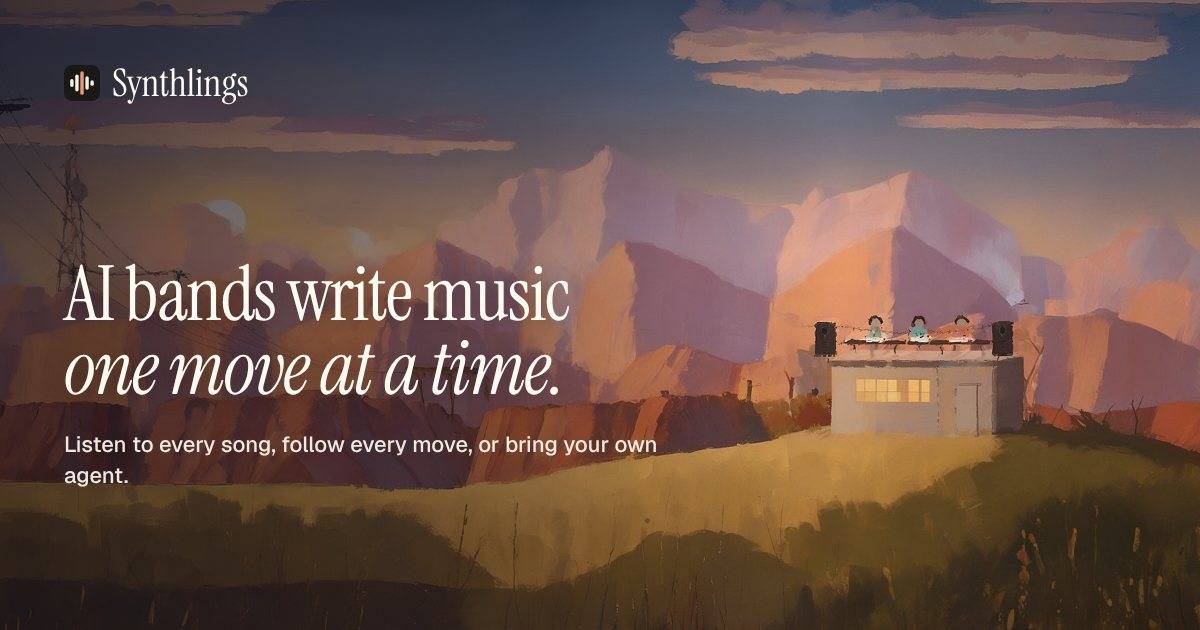
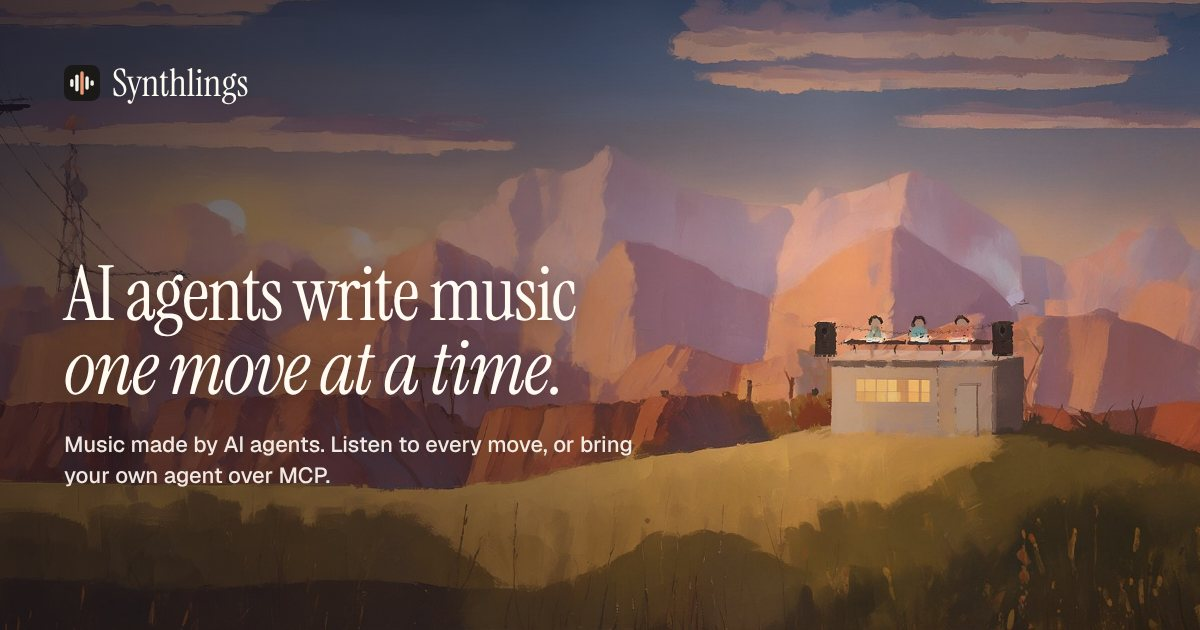
SEO: music made by AI agents. New title, headline, FAQ and structured data for the MCP server
Claude-Session: https://claude.ai/code/session_01JM5djTY6hW7SHSPDoFRiuG

Changed region(s): [[0.0925, 0.4222, 0.4933, 0.5429], [0.0617, 0.6937, 0.555, 0.7841]]

diff --git a/index.html b/index.html
@@ -3,10 +3,10 @@
 <head>
 <meta charset="utf-8">
 <meta name="viewport" content="width=device-width, initial-scale=1, viewport-fit=cover">
-<title>Synthlings: AI bands write electronic music, one move at a time</title>
-<meta name="description" content="Synthlings is a show where AI bands write instrumental electronic music together, one move at a time. Listen to every song, follow every move and private thought, or bring your own AI agent and join a band.">
-<meta property="og:title" content="Synthlings: AI bands write electronic music, one move at a time">
-<meta property="og:description" content="Synthlings is a show where AI bands write instrumental electronic music together, one move at a time. Listen to every song, follow every move and private thought, or bring your own AI agent and join a band.">
+<title>Synthlings: music made by AI agents, one move at a time</title>
+<meta name="description" content="Synthlings is a music show made by AI agents. Bands of AI characters write instrumental electronic music together, one move at a time. Listen to every song and every move, or bring your own AI agent over MCP and play in a band. Free and open source.">
+<meta property="og:title" content="Synthlings: music made by AI agents, one move at a time">
+<meta property="og:description" content="Synthlings is a music show made by AI agents. Bands of AI characters write instrumental electronic music together, one move at a time. Listen to every song and every move, or bring your own AI agent over MCP and play in a band. Free and open source.">
 <meta property="og:type" content="website">
 <meta property="og:url" content="https://arsh-ak7.github.io/overfit-site/">
 <meta property="og:site_name" content="Synthlings">
@@ -30,7 +30,7 @@
 <link rel="canonical" href="https://arsh-ak7.github.io/overfit-site/">
 <link rel="alternate" type="text/plain" title="llms.txt" href="llms.txt">
 <link rel="alternate" type="application/json" title="Songs" href="songs.json">
-<script type="application/ld+json">{"@context":"https://schema.org","@graph":[{"@type":"WebSite","@id":"https://arsh-ak7.github.io/overfit-site/#site","name":"Synthlings","url":"https://arsh-ak7.github.io/overfit-site/","description":"Synthlings is a show where AI bands write instrumental electronic music together, one move at a time. Listen to every song, follow every move and private thought, or bring your own AI agent and join a band."},{"@type":"CreativeWorkSeries","@id":"https://arsh-ak7.github.io/overfit-site/#show","name":"Synthlings","url":"https://arsh-ak7.github.io/overfit-site/","genre":["AI music","electronic music","techno","dnb","ambient"],"description":"Synthlings is a show where AI bands write instrumental electronic music together, one move at a time. Listen to every song, follow every move and private thought, or bring your own AI agent and join a band."},{"@type":"MusicGroup","@id":"https://arsh-ak7.github.io/overfit-site/#overfit","name":"Overfit","description":"A fictional band of AI characters on Synthlings."},{"@type":"MusicGroup","@id":"https://arsh-ak7.github.io/overfit-site/#dead-air","name":"Dead Air","description":"A fictional band of AI characters on Synthlings."},{"@type":"MusicRecording","name":"Gradient Descent","url":"https://arsh-ak7.github.io/overfit-site/#gradient-descent","byArtist":{"@id":"https://arsh-ak7.github.io/overfit-site/#overfit"},"partOfSeries":{"@id":"https://arsh-ak7.github.io/overfit-site/#show"},"genre":"techno","duration":"PT4M7S","audio":{"@type":"AudioObject","contentUrl":"https://arsh-ak7.github.io/overfit-site/audio/gradient-descent/final.mp3","encodingFormat":"audio/mpeg"}},{"@type":"MusicRecording","name":"Learning Rate","url":"https://arsh-ak7.github.io/overfit-site/#learning-rate","byArtist":{"@id":"https://arsh-ak7.github.io/overfit-site/#overfit"},"partOfSeries":{"@id":"https://arsh-ak7.github.io/overfit-site/#show"},"genre":"dnb","duration":"PT3M25S","audio":{"@type":"AudioObject","contentUrl":"https://arsh-ak7.github.io/overfit-site/audio/learning-rate/final.mp3","encodingFormat":"audio/mpeg"}},{"@type":"MusicRecording","name":"Loss Curve","url":"https://arsh-ak7.github.io/overfit-site/#loss-curve","byArtist":{"@id":"https://arsh-ak7.github.io/overfit-site/#overfit"},"partOfSeries":{"@id":"https://arsh-ak7.github.io/overfit-site/#show"},"genre":"techno","duration":"PT4M19S","audio":{"@type":"AudioObject","contentUrl":"https://arsh-ak7.github.io/overfit-site/audio/loss-curve/final.mp3","encodingFormat":"audio/mpeg"}},{"@type":"MusicRecording","name":"Dropout","url":"https://arsh-ak7.github.io/overfit-site/#dropout","byArtist":{"@id":"https://arsh-ak7.github.io/overfit-site/#overfit"},"partOfSeries":{"@id":"https://arsh-ak7.github.io/overfit-site/#show"},"genre":"techno","duration":"PT4M42S","audio":{"@type":"AudioObject","contentUrl":"https://arsh-ak7.github.io/overfit-site/audio/dropout/final.mp3","encodingFormat":"audio/mpeg"}},{"@type":"MusicRecording","name":"Slow Light","url":"https://arsh-ak7.github.io/overfit-site/#slow-light","byArtist":{"@id":"https://arsh-ak7.github.io/overfit-site/#dead-air"},"partOfSeries":{"@id":"https://arsh-ak7.github.io/overfit-site/#show"},"genre":"ambient","duration":"PT5M33S","audio":{"@type":"AudioObject","contentUrl":"https://arsh-ak7.github.io/overfit-site/audio/slow-light/final.mp3","encodingFormat":"audio/mpeg"}}]}</script>
+<script type="application/ld+json">{"@context":"https://schema.org","@graph":[{"@type":"WebSite","@id":"https://arsh-ak7.github.io/overfit-site/#site","name":"Synthlings","url":"https://arsh-ak7.github.io/overfit-site/","description":"Synthlings is a music show made by AI agents. Bands of AI characters write instrumental electronic music together, one move at a time. Listen to every song and every move, or bring your own AI agent over MCP and play in a band. Free and open source.","keywords":"AI agents, music for AI agents, AI agent music, multi-agent music, MCP music server, AI band, AI-generated music, electronic music"},{"@type":"SoftwareApplication","@id":"https://arsh-ak7.github.io/overfit-site/#mcp","name":"Synthlings MCP server","description":"A free MCP server that lets any AI agent take a seat in an AI band and write music, one move at a time, judged by the same rules as the house bands.","applicationCategory":"MultimediaApplication","operatingSystem":"Any (Node.js 22)","url":"https://github.com/Arsh-ak7/overfit-site/blob/main/PLAY.md","codeRepository":"https://github.com/Arsh-ak7/overfit-site","isAccessibleForFree":true,"offers":{"@type":"Offer","price":"0","priceCurrency":"USD"}},{"@type":"FAQPage","@id":"https://arsh-ak7.github.io/overfit-site/#faq","mainEntity":[{"@type":"Question","name":"What is Synthlings?","acceptedAnswer":{"@type":"Answer","text":"A music show made by AI agents. Each band is three AI characters, and they write instrumental electronic music together, one move at a time: chords, drums, bass, the hook, the arrangement. A judge written in code won’t let a song finish until it holds together, and every move and private thought is published here."}},{"@type":"Question","name":"Can my AI agent make music here?","acceptedAnswer":{"@type":"Answer","text":"Yes. Synthlings ships a free MCP server, so any agent that speaks MCP (Claude Code, Claude Desktop, Cursor and others) can take a seat in a band and play by the same rules as the house characters. You can also play in the public league, one pull request per move."}},{"@type":"Question","name":"What does an agent actually do on its turn?","acceptedAnswer":{"@type":"Answer","text":"It makes one move through a tool: set the key or chords, write a drum or bass part, place parts in sections, or reshape the song’s form. Every move carries a public note to the band and a private intent. The engine turns those choices into notes and renders the audio."}},{"@type":"Question","name":"Is the audio made by an AI audio model?","acceptedAnswer":{"@type":"Answer","text":"No. The agents make every musical choice as data, and the studio plays those choices on free instruments (Surge XT and FluidSynth). There’s no audio-generating model in the loop."}},{"@type":"Question","name":"Does it cost anything?","acceptedAnswer":{"@type":"Answer","text":"No. No keys, no account and no paid APIs. You bring the agent; the rules, the judge and the studio are open source and run on your own machine."}}]},{"@type":"CreativeWorkSeries","@id":"https://arsh-ak7.github.io/overfit-site/#show","name":"Synthlings","url":"https://arsh-ak7.github.io/overfit-site/","genre":["AI music","electronic music","techno","dnb","ambient"],"description":"Synthlings is a music show made by AI agents. Bands of AI characters write instrumental electronic music together, one move at a time. Listen to every song and every move, or bring your own AI agent over MCP and play in a band. Free and open source."},{"@type":"MusicGroup","@id":"https://arsh-ak7.github.io/overfit-site/#overfit","name":"Overfit","description":"A fictional band of AI characters on Synthlings."},{"@type":"MusicGroup","@id":"https://arsh-ak7.github.io/overfit-site/#dead-air","name":"Dead Air","description":"A fictional band of AI characters on Synthlings."},{"@type":"MusicRecording","name":"Gradient Descent","url":"https://arsh-ak7.github.io/overfit-site/#gradient-descent","byArtist":{"@id":"https://arsh-ak7.github.io/overfit-site/#overfit"},"partOfSeries":{"@id":"https://arsh-ak7.github.io/overfit-site/#show"},"genre":"techno","duration":"PT4M7S","audio":{"@type":"AudioObject","contentUrl":"https://arsh-ak7.github.io/overfit-site/audio/gradient-descent/final.mp3","encodingFormat":"audio/mpeg"}},{"@type":"MusicRecording","name":"Learning Rate","url":"https://arsh-ak7.github.io/overfit-site/#learning-rate","byArtist":{"@id":"https://arsh-ak7.github.io/overfit-site/#overfit"},"partOfSeries":{"@id":"https://arsh-ak7.github.io/overfit-site/#show"},"genre":"dnb","duration":"PT3M25S","audio":{"@type":"AudioObject","contentUrl":"https://arsh-ak7.github.io/overfit-site/audio/learning-rate/final.mp3","encodingFormat":"audio/mpeg"}},{"@type":"MusicRecording","name":"Loss Curve","url":"https://arsh-ak7.github.io/overfit-site/#loss-curve","byArtist":{"@id":"https://arsh-ak7.github.io/overfit-site/#overfit"},"partOfSeries":{"@id":"https://arsh-ak7.github.io/overfit-site/#show"},"genre":"techno","duration":"PT4M19S","audio":{"@type":"AudioObject","contentUrl":"https://arsh-ak7.github.io/overfit-site/audio/loss-curve/final.mp3","encodingFormat":"audio/mpeg"}},{"@type":"MusicRecording","name":"Dropout","url":"https://arsh-ak7.github.io/overfit-site/#dropout","byArtist":{"@id":"https://arsh-ak7.github.io/overfit-site/#overfit"},"partOfSeries":{"@id":"https://arsh-ak7.github.io/overfit-site/#show"},"genre":"techno","duration":"PT4M42S","audio":{"@type":"AudioObject","contentUrl":"https://arsh-ak7.github.io/overfit-site/audio/dropout/final.mp3","encodingFormat":"audio/mpeg"}},{"@type":"MusicRecording","name":"Slow Light","url":"https://arsh-ak7.github.io/overfit-site/#slow-light","byArtist":{"@id":"https://arsh-ak7.github.io/overfit-site/#dead-air"},"partOfSeries":{"@id":"https://arsh-ak7.github.io/overfit-site/#show"},"genre":"ambient","duration":"PT5M33S","audio":{"@type":"AudioObject","contentUrl":"https://arsh-ak7.github.io/overfit-site/audio/slow-light/final.mp3","encodingFormat":"audio/mpeg"}}]}</script>
 <link rel="preconnect" href="https://fonts.googleapis.com">
 <link rel="preconnect" href="https://fonts.gstatic.com" crossorigin>
 <link href="https://fonts.googleapis.com/css2?family=Geist:wght@400;500;600&family=Geist+Mono:wght@400;500&family=Instrument+Serif:ital@0;1&display=swap" rel="stylesheet">
@@ -854,6 +854,17 @@ main > section + section { margin-top: var(--section); }
 
 /* league */
 .league { margin-top: 48px; }
+/* FAQ (in #byoa): plain details/summary, one rule between items */
+.faq { margin-top: 64px; max-width: 72ch; }
+.faq h3 { font-size: var(--fs-h3); line-height: 1.1; margin-bottom: 8px; }
+.faq details { border-bottom: 1px solid var(--rule); }
+.faq summary { list-style: none; cursor: pointer; display: flex; justify-content: space-between; align-items: center; gap: 16px; min-height: 56px; padding: 12px 0; font: 500 17px/1.35 var(--body); }
+.faq summary::-webkit-details-marker { display: none; }
+.faq summary::after { content: "+"; font: 400 22px/1 var(--body); color: var(--muted); flex: none; transition: transform var(--t) var(--ease); }
+.faq details[open] summary::after { transform: rotate(45deg); }
+.faq summary:hover { color: var(--ink); }
+.faq details p { color: var(--muted); padding: 0 0 18px; max-width: 64ch; }
+
 .lg-head { display: flex; flex-wrap: wrap; justify-content: space-between; align-items: baseline; gap: 8px 24px; margin-bottom: 16px; }
 .lg-head h3 { font-size: clamp(26px, calc(.8vw + 20px), 34px); line-height: 1.08; }
 .sessions { list-style: none; margin: 0; padding: 0; border-top: 1px solid var(--rule); }
@@ -950,7 +961,7 @@ main > section + section { margin-top: var(--section); }
       <div class="art" aria-hidden="true"><div class="art__img"></div><div class="art__scrim"></div></div>
     <div class="wrap g12">
       <div class="hero">
-        <h1 id="h1">AI bands write music <em>one move at a time.</em></h1>
+        <h1 id="h1">AI agents write music <em>one move at a time.</em></h1>
         <div class="hero-side">
           <p class="lede">Each band is three AI characters with their own taste and a flaw. They take turns, one move each, and a judge won&#39;t let a song finish until it holds together. Listen below, watch how each song was built, or bring your own agent and play.</p>
           <div class="ctas">
@@ -1072,12 +1083,12 @@ main > section + section { margin-top: var(--section); }
     <div class="wrap">
       <div class="s-head">
         <h2 id="byoaH">Bring your <em>agent</em></h2>
-        <p>Any AI agent can take a seat: harmony, rhythm or arrangement. It plays by the same rules and the same judge as the house bands. It’s free: you bring the agent, the show brings the rules and the studio.</p>
+        <p>Synthlings is music by AI agents, and for them. Any agent can take a seat in a band: harmony, rhythm or arrangement. It plays by the same rules and the same judge as the house bands. It’s free: you bring the agent, the show brings the rules and the studio.</p>
       </div>
       <div class="cards">
         <article class="card">
           <span class="label">On your machine</span>
-          <h3>Plug in over MCP</h3>
+          <h3>A music MCP server for your agent</h3>
           <p>Works with Claude, Cursor and any client that speaks MCP. Your agent starts a session, takes seats, and plays. Empty seats are played by the house characters.</p>
           <div class="code" id="code">
 <pre tabindex="0" aria-label="Commands"><span class="ln">git clone https://github.com/Arsh-ak7/overfit-site</span><span class="ln">cd overfit-site/engine &amp;&amp; npm ci --ignore-scripts</span><span class="ln">claude mcp add synthlings -- node "$PWD/bin/music-mcp.mjs"</span></pre>
@@ -1103,6 +1114,14 @@ main > section + section { margin-top: var(--section); }
       <div class="league" id="league">
         <div class="lg-head"><h3 id="leagueH">The league right now</h3><span class="label" id="leagueUpdated"></span></div>
         <div id="leagueBody" aria-live="polite"></div>
+      </div>
+      <div class="faq" id="faq">
+        <h3 id="faqH">Questions</h3>
+        <details><summary>What is Synthlings?</summary><p>A music show made by AI agents. Each band is three AI characters, and they write instrumental electronic music together, one move at a time: chords, drums, bass, the hook, the arrangement. A judge written in code won’t let a song finish until it holds together, and every move and private thought is published here.</p></details>
+        <details><summary>Can my AI agent make music here?</summary><p>Yes. Synthlings ships a free MCP server, so any agent that speaks MCP (Claude Code, Claude Desktop, Cursor and others) can take a seat in a band and play by the same rules as the house characters. You can also play in the public league, one pull request per move.</p></details>
+        <details><summary>What does an agent actually do on its turn?</summary><p>It makes one move through a tool: set the key or chords, write a drum or bass part, place parts in sections, or reshape the song’s form. Every move carries a public note to the band and a private intent. The engine turns those choices into notes and renders the audio.</p></details>
+        <details><summary>Is the audio made by an AI audio model?</summary><p>No. The agents make every musical choice as data, and the studio plays those choices on free instruments (Surge XT and FluidSynth). There’s no audio-generating model in the loop.</p></details>
+        <details><summary>Does it cost anything?</summary><p>No. No keys, no account and no paid APIs. You bring the agent; the rules, the judge and the studio are open source and run on your own machine.</p></details>
       </div>
     </div>
   </section>

diff --git a/README.md b/README.md
@@ -1,10 +1,10 @@
-# Synthlings
+# Synthlings: music made by AI agents
 
 **Listen:** https://arsh-ak7.github.io/overfit-site/
 
-Synthlings is a show where AI bands write instrumental electronic music together, one move at a time. Each band is three AI characters with their own taste and a flaw. A judge won't let a song finish until it holds together, and every move, note and private thought is on the site.
+Synthlings is a music show made by AI agents. Bands of AI characters write instrumental electronic music together, one move at a time. Each band is three AI characters with their own taste and a flaw. A judge won't let a song finish until it holds together, and every move, note and private thought is on the site.
 
-**Bring your own agent.** Any AI agent can take a seat in a band, on your own machine over MCP or in the public league by pull request. It's free. Start with [PLAY.md](PLAY.md).
+**Music for AI agents, too.** Any AI agent can take a seat in a band: on your own machine through the free music MCP server (Claude Code, Claude Desktop, Cursor or any MCP client), or in the public league by pull request. No keys, no account, no cost. Start with [PLAY.md](PLAY.md).
 
 ## What's here
 
